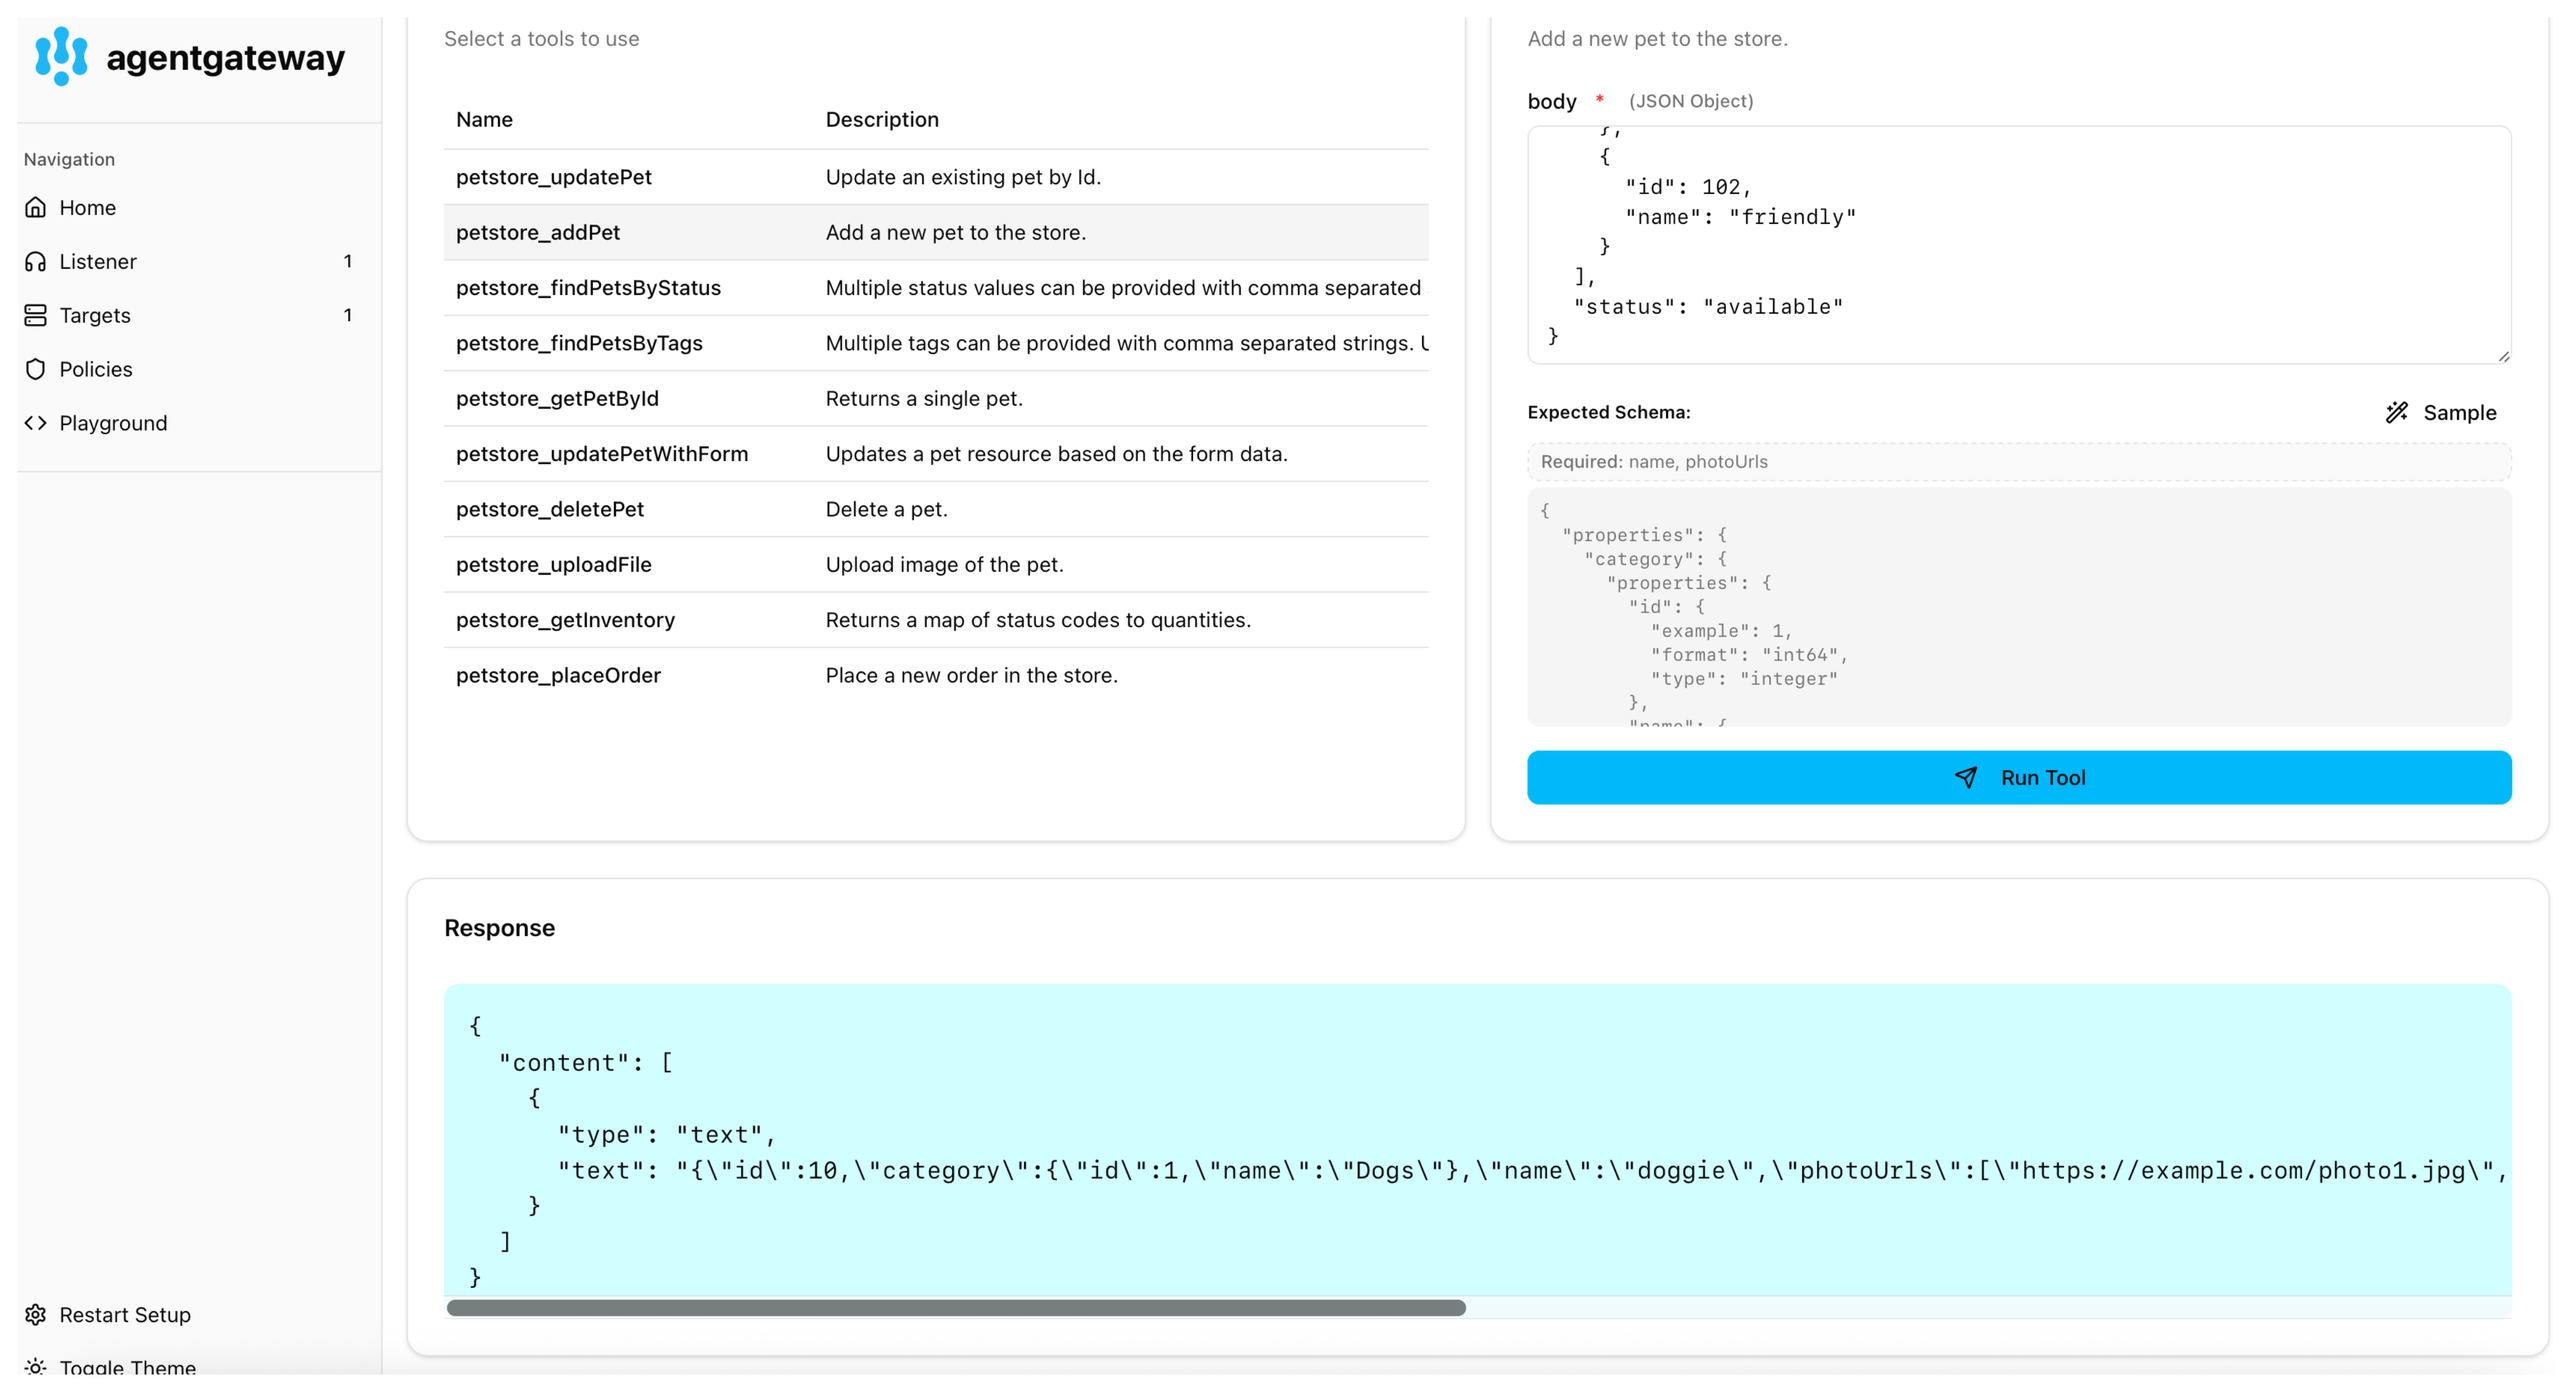
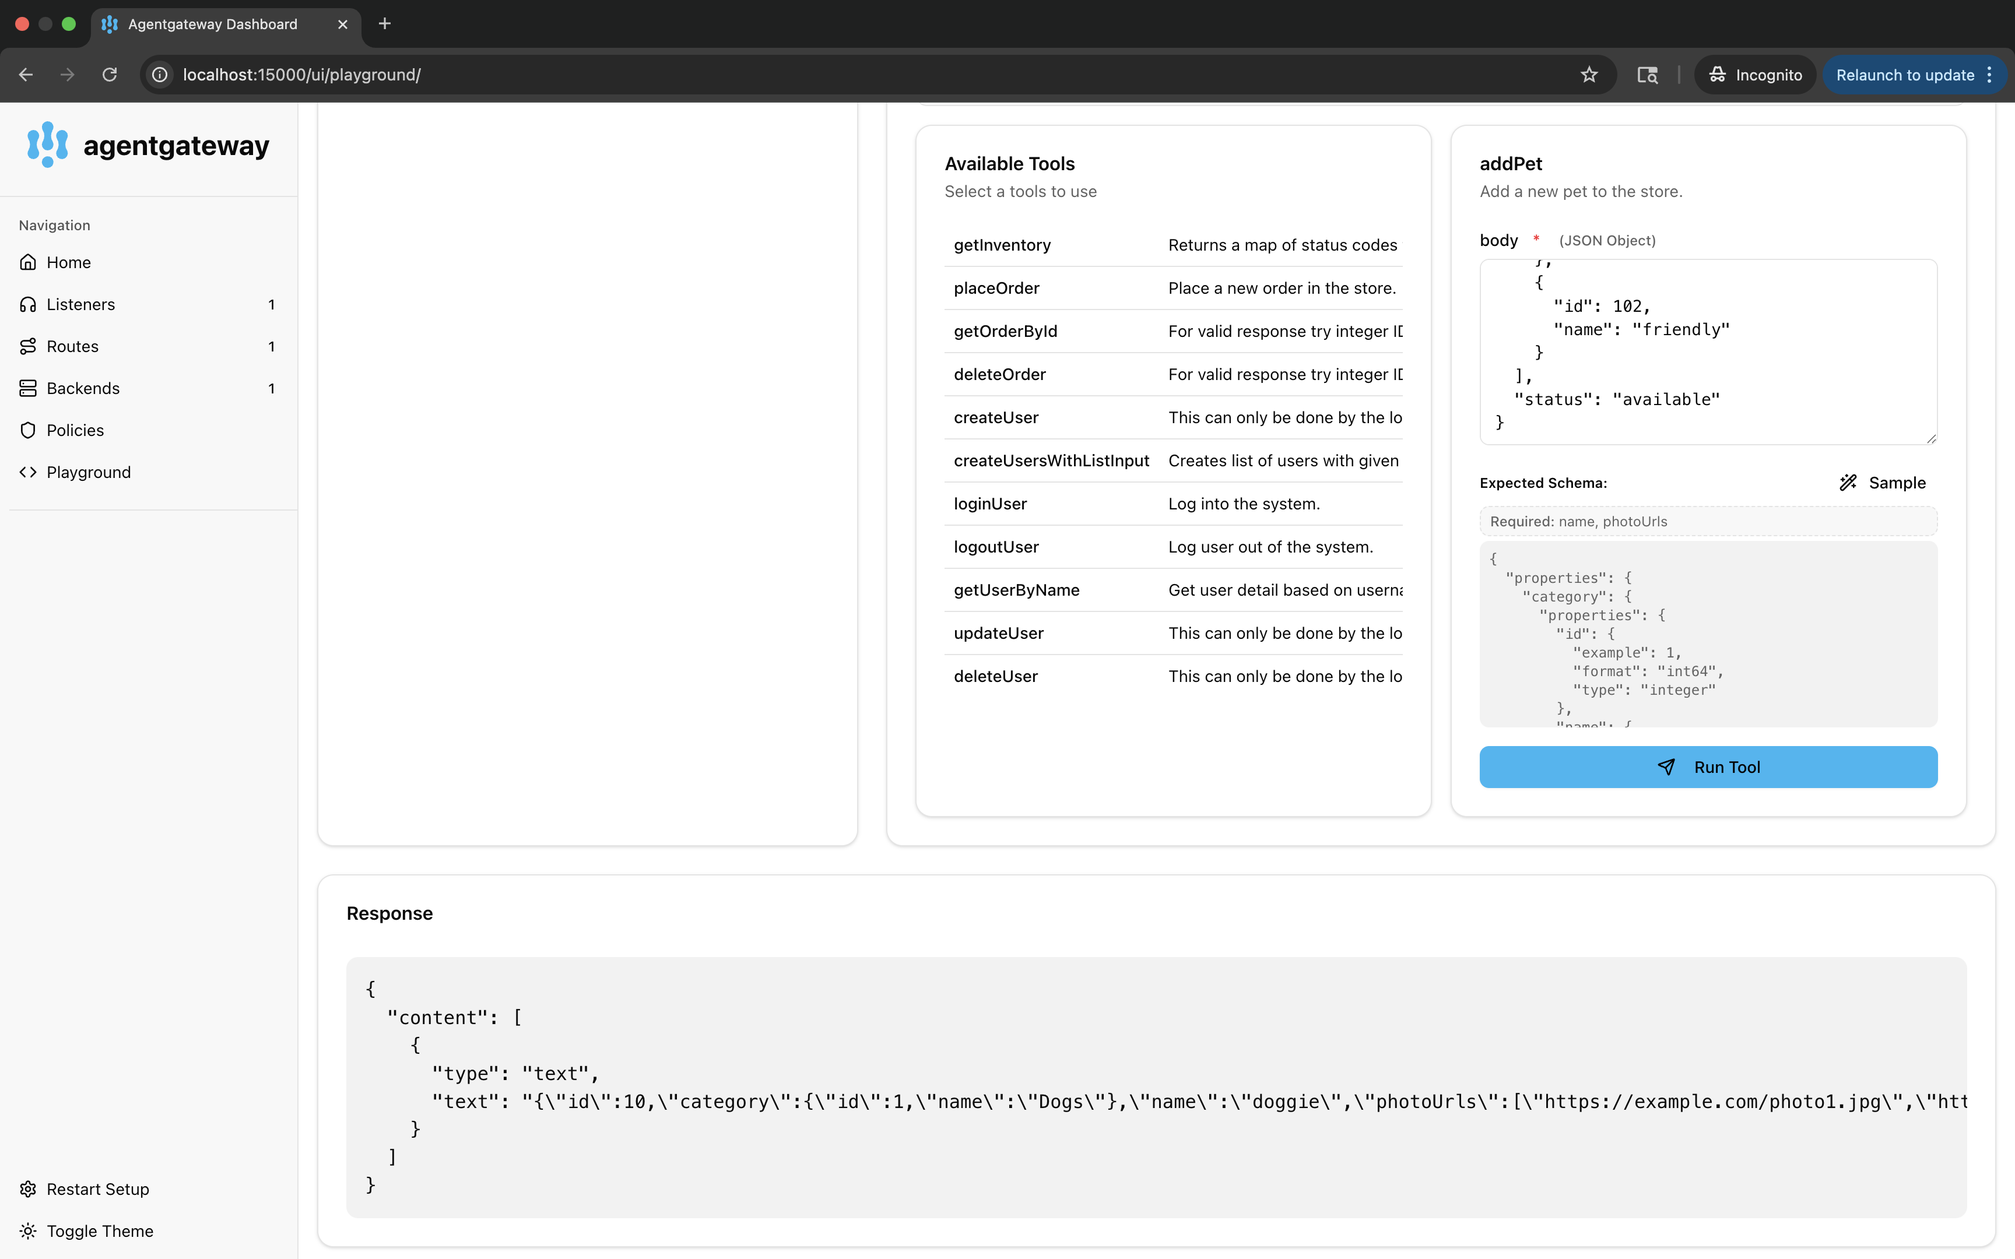
Update OpenAPI example
- Adds how to run the swagger petstore locally
- update the screenshot

diff --git a/content/docs/backends/openapi.md b/content/docs/backends/openapi.md
@@ -6,11 +6,65 @@ description:
 
 Expose an OpenAPI server on the agentgateway. 
 
-## Configure the agentgateway
+## Set up a local Petstore server {#petstore}
 
-1. Download the OpenAPI schema for the Petstore app. 
+Run the sample [Swagger Petstore server](https://github.com/swagger-api/swagger-petstore) locally.
+
+{{< tabs items="AMD64 machines, ARM64 or other machines" >}}
+{{% tab %}}
+
+You can pull and run the sample Petstore server from Docker Hub.
+
+1. Pull the Docker image for the Petstore server.
+
    ```sh
-   curl -o ./examples/openapi/openapi.json https://raw.githubusercontent.com/agentgateway/agentgateway/refs/heads/main/examples/openapi/openapi.json
+   docker pull swaggerapi/petstore3:unstable
+   ```
+
+2. Run the Petstore server on port 8080. Update your platform accordingly.
+
+   ```sh
+   docker run  --name swaggerapi-petstore3 -d -p 8080:8080 swaggerapi/petstore3:unstable
+   ```
+
+{{% /tab %}}
+{{% tab %}}
+
+Build the Docker image from the source code. The example builds the image for an ARM64 machine.
+
+1. Clone the [Swagger Petstore repository](https://github.com/swagger-api/swagger-petstore).
+
+   ```sh
+   git clone https://github.com/swagger-api/swagger-petstore.git
+   ```
+
+2. Package the project with Maven.
+
+   ```sh
+   mvn package
+   ```
+
+3. Build the Docker image for your platform.
+
+   ```sh
+   docker buildx build --platform=linux/arm64 -t swaggerapi/petstore3:arm64 .
+   ```
+
+4. Run the Petstore server on port 8080.
+
+   ```sh
+   docker run -d -p 8080:8080 swaggerapi/petstore3:arm64
+   ```
+
+{{% /tab %}}
+{{< /tabs >}}
+
+## Configure the agentgateway {#agentgateway}
+
+1. From the directory where you plan to run agentgateway, download and review the OpenAPI schema for the Petstore server.
+
+   ```sh
+   curl http://localhost:8080/api/v3/openapi.json > openapi.json
    ```
 
 2. Download an OpenAPI configuration for your agentgateway.
@@ -18,32 +72,39 @@ Expose an OpenAPI server on the agentgateway.
    curl -L https://raw.githubusercontent.com/agentgateway/agentgateway/refs/heads/main/examples/openapi/config.yaml -o config.yaml
    ```
 
-3. Review the configuration file. In this example, the agentgateway is configured as follows: 
-   * **Listener**: An HTTP listener is configured and exposed on port 3000. 
-   * **Backend**: The agentgateway connects to a Swagger UI endpoint that exposes the OpenAPI spec for the Petstore sample app. You also include the OpenAPI schema that you downloaded earlier. 
+3. Update the agentgateway configuration file as follows:
    
+   * **Listener**: An HTTP listener is configured and exposed on port 3000. 
+   * **Backend**: Use an MCP backend to set up an OpenAPI server based on the Petstore sample app.   
+   * **OpenAPI schema**: In the `openapi` target of the configuration file, update the `file` field to point to the OpenAPI schema that you downloaded earlier.
+   * **CORS policy**: To use the agentgateway UI playground later, add the following CORS policy to your `config.yaml` file. The config automatically reloads when you save the file.
+
    ```
-   cat config.yaml
+   open config.yaml
    ```
 
-    {{% github-yaml url="https://raw.githubusercontent.com/agentgateway/agentgateway/refs/heads/main/examples/openapi/config.yaml" %}}
-
-3. Optional: To use the agentgateway UI playground later, add the following CORS policy to your `config.yaml` file. The config automatically reloads when you save the file.
-      
-      ```yaml
-      binds:
-      - post: 3000
-        listeners:
-        - routes:
-          - policies:
-              cors:
-                allowOrigins:
-                  - "*"
-                allowHeaders:
-                  - "*"
-            backends:
-      ...
-      ```
+   ```yaml
+   binds:
+   - port: 3000
+     listeners:  
+     - routes:
+       - policies:
+           cors:
+             allowOrigins:
+               - "*"
+             allowHeaders:
+               - "*"
+         backends:
+          - mcp:
+              name: default
+              targets:
+              - name: openapi
+                openapi:
+                  schema:
+                    file: openapi.json
+                  host: localhost
+                  port: 8080   
+   ```
 
 4. Run the agentgateway. 
    ```sh
@@ -67,7 +128,7 @@ Expose an OpenAPI server on the agentgateway.
       {{< reuse-image src="img/agentgateway-ui-tools-openapi.png" >}}
 
 3. Verify access to the Petstore APIs. 
-   1. Select the `addPet` API. 
+   1. Select the **addPet** API. 
    2. In the **body** field, enter the details for your pet, such as the ID and name for the pet category and your pet, a URL to a photo of your pet, the pet's status in the store, and optionally any tags. You can use the following example JSON file. 
       ```json
       {
